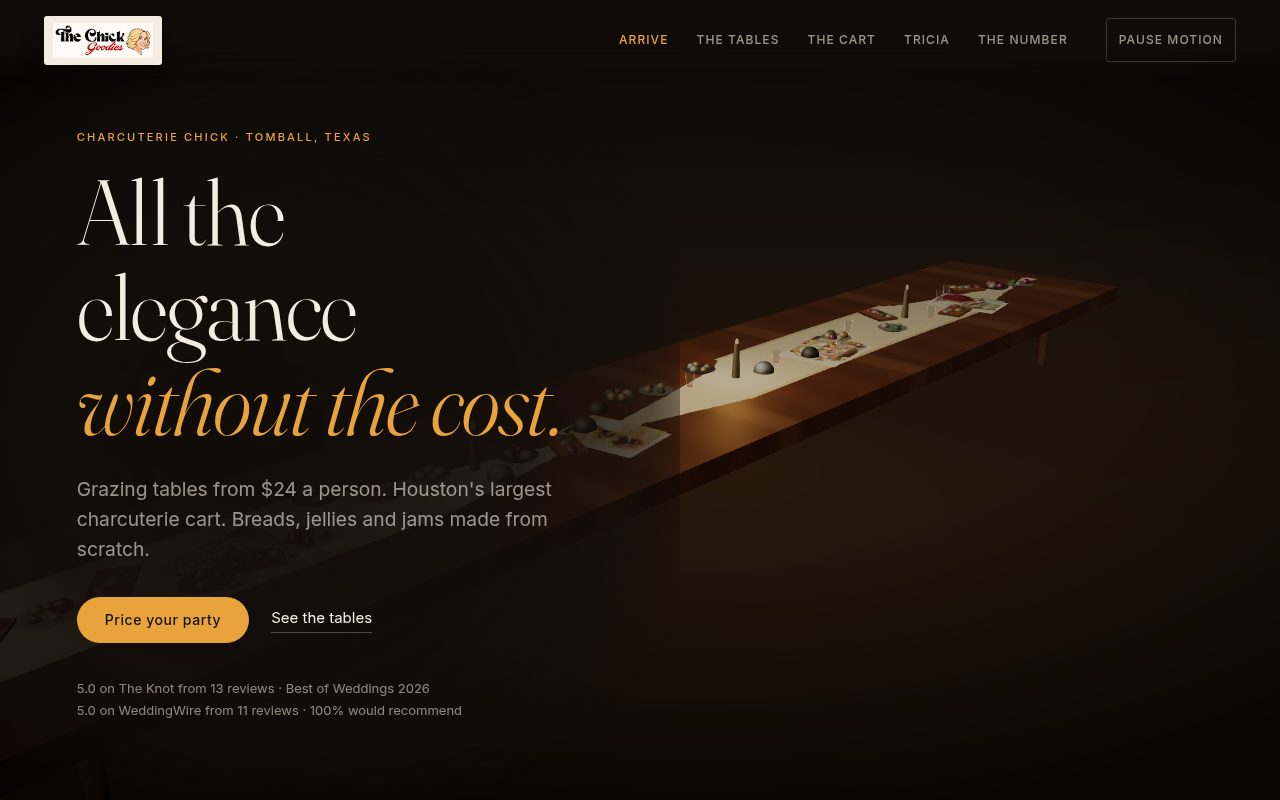
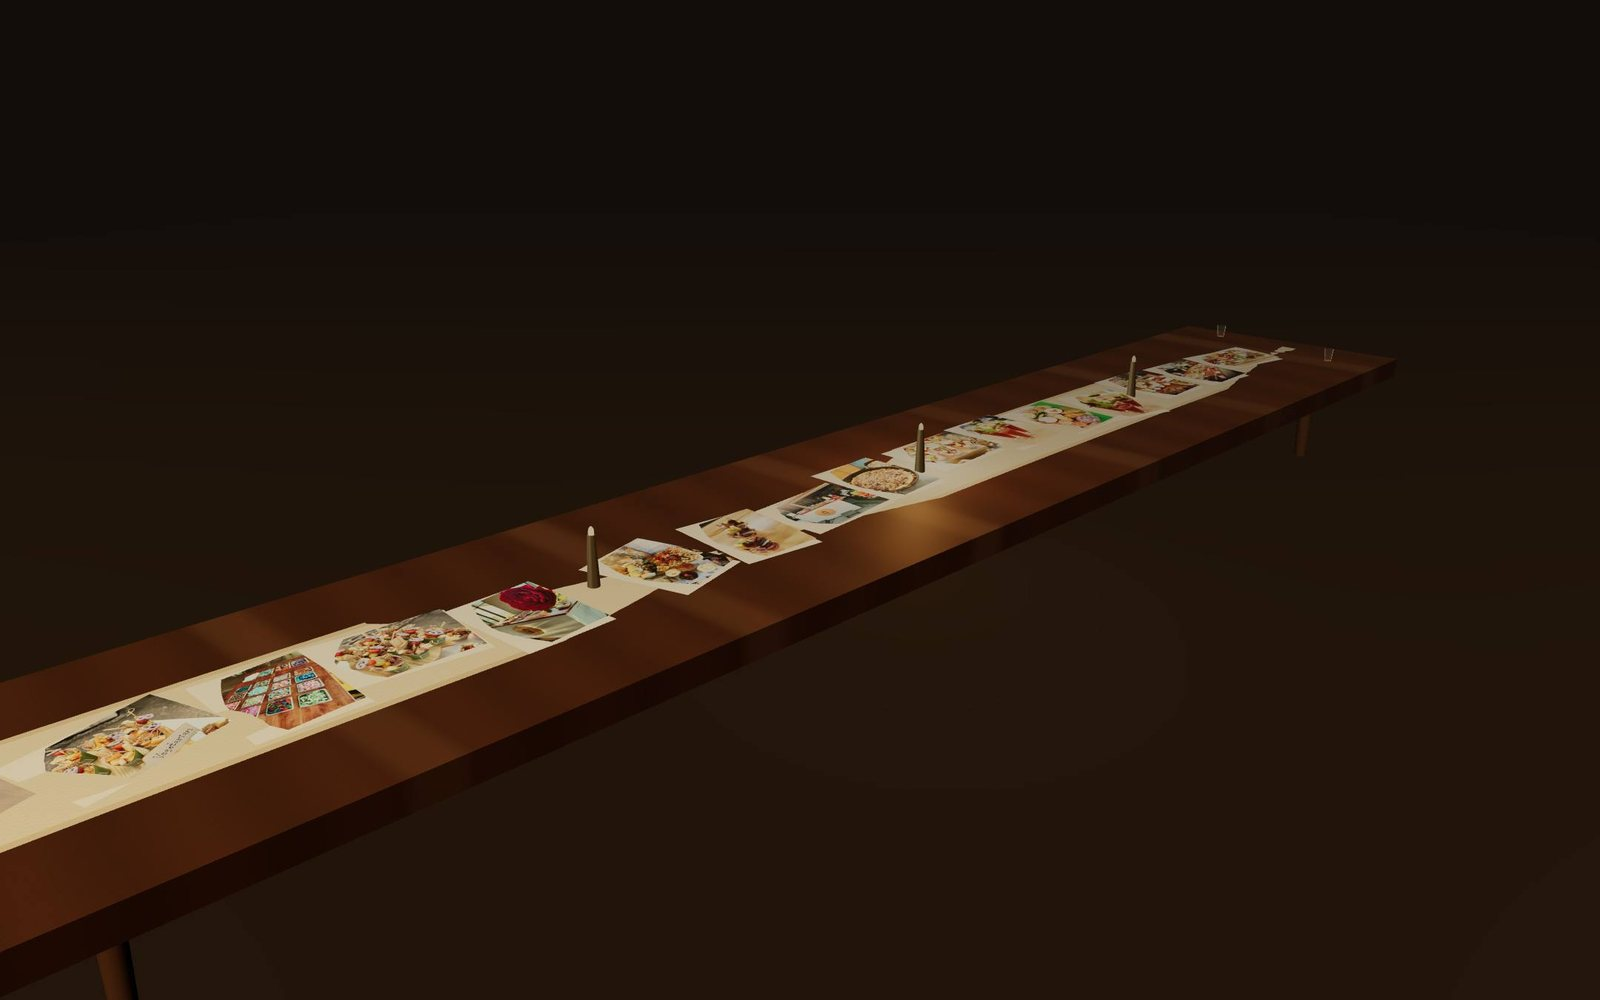
chick-goodies: proposal shows the new Table render; six workflow routines on record
The proposal's picture of The Table is now the scene still (the room
without page chrome), and build.js no longer overwrites it with a live
screenshot. QUOTE.md records the workflows package as six routines at
$500, after Garrett said three felt steep; the proposal pages that show
them follow in the next commit.

Claude-Session: https://claude.ai/code/session_01PfAEN5U28uDvKpTKnQ34jK

diff --git a/clients/chick-goodies/docs/proposal/build.js b/clients/chick-goodies/docs/proposal/build.js
@@ -21,8 +21,11 @@ const shots = {
   'sample-1': 'https://charcuterie-chick-sample-1.vercel.app/',
   'sample-2': 'https://charcuterie-chick-sample-2.vercel.app/',
   'sample-3': 'https://charcuterie-chick-sample-3.vercel.app/',
-  'table': 'https://charcuterie-chick-sample-3.vercel.app/table.html',
 };
+// img/table.jpg is not a screenshot: it is the scene still from
+// samples/sample-3-studio/img/table-still.jpg, resized to 1600x1000, so the
+// proposal shows the room without the page chrome. Copy it again when that
+// still is re-rendered.
 
 async function proxied(page) {
   if (!process.env.HTTPS_PROXY) return;

diff --git a/clients/chick-goodies/QUOTE.md b/clients/chick-goodies/QUOTE.md
@@ -77,7 +77,7 @@ Edge LLC (Garrett Baxley).
 
 | Item | Price | Notes |
 |---|---|---|
-| Workflows package | $500 | On record in STATE.md. Enquiry log with a nudge, thank-you and review ask, day-30 return, templates, monthly one-screen report. Texts from her phone, no automated replies, no paid SMS service. |
+| Workflows package | $500 | On record in STATE.md. Six routines (revised 2026-09-17, evening, at Garrett's request: three felt steep at $500): never miss a quote (enquiry log with a nudge), the quiet quote (follow-up three days after a quote goes unanswered), confirmed and counted (confirmation two days before the event with the final headcount), turn every event into a review (day-2 thank-you, day-3 review link), bring the host back (day-30 note with an offer she sets), the season ahead (a reminder and a ready note to past hosts six weeks before each busy season). Templates in her voice, the log, the monthly one-screen report. Texts from her phone, no automated replies, no paid SMS service. |
 | Photo enhancement | $250 | All current photos (21 on file) cleaned, color-corrected, sharpened, sized for site, Google, Instagram, Pinterest. Originals kept. Never say "AI" to the client. |
 | Photo recreation | $450 | Twelve new hero and social images produced from her own photographs. She approves each. No stock, no invented food. |
 | Both photography services | $600 | |
